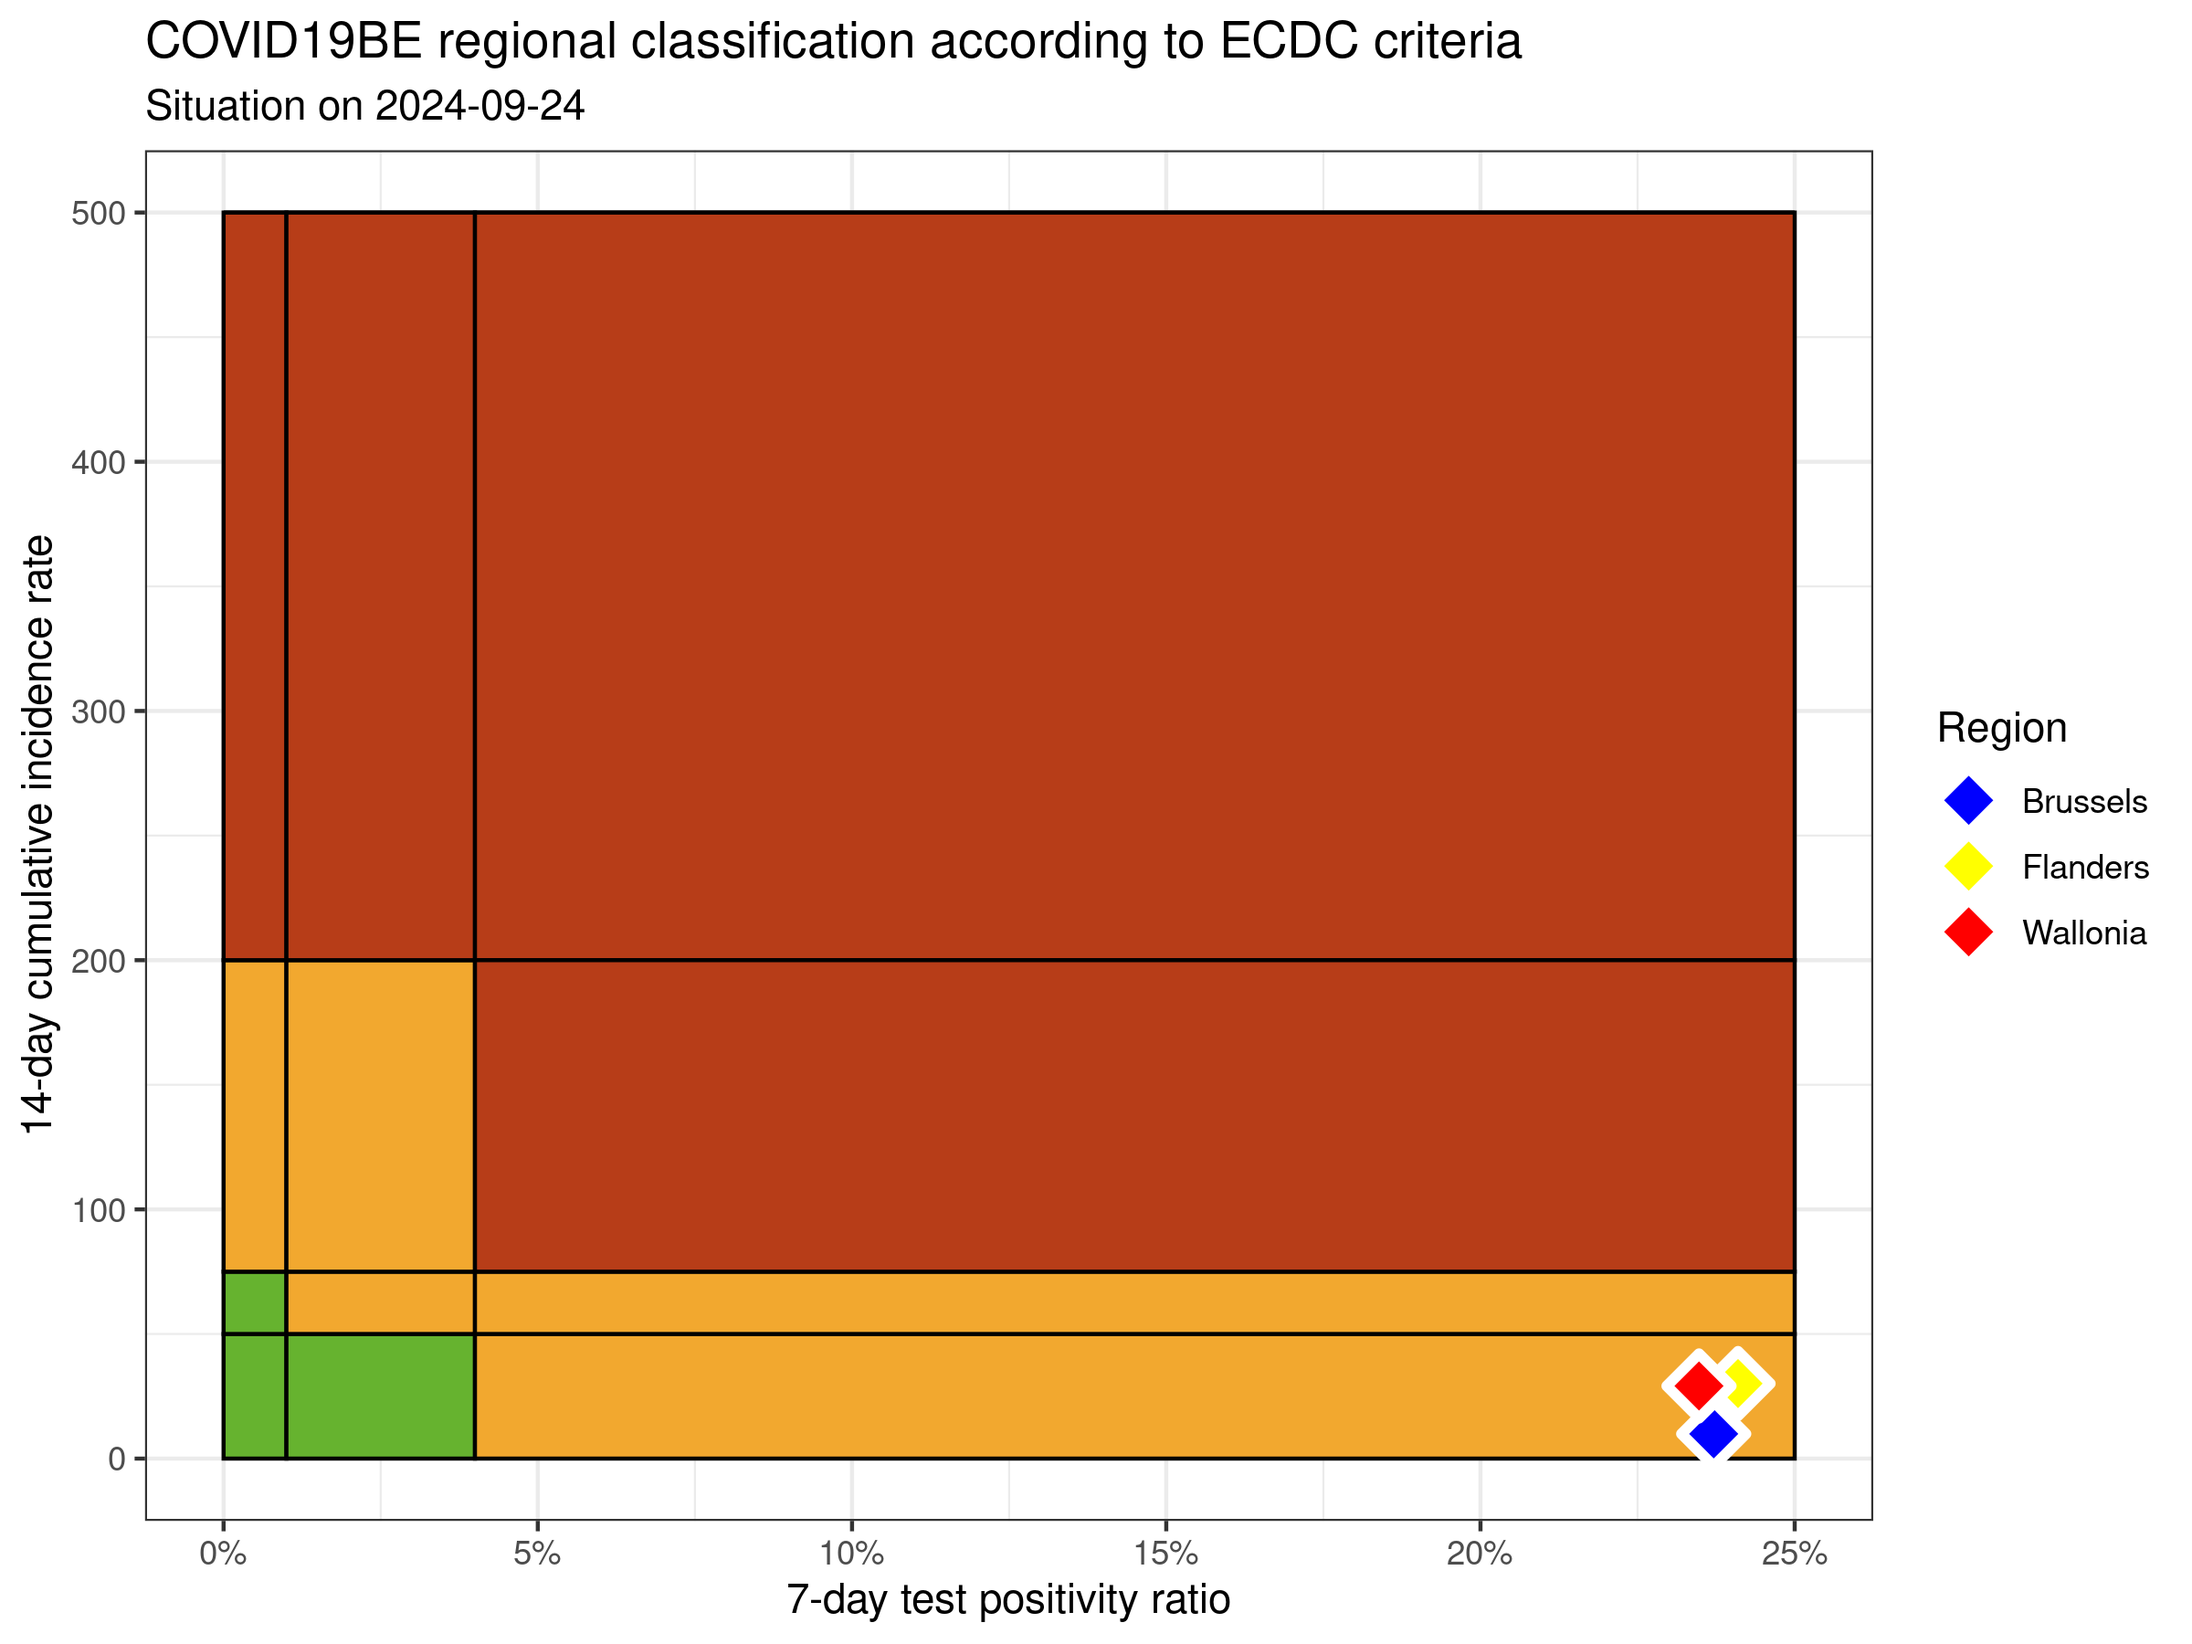
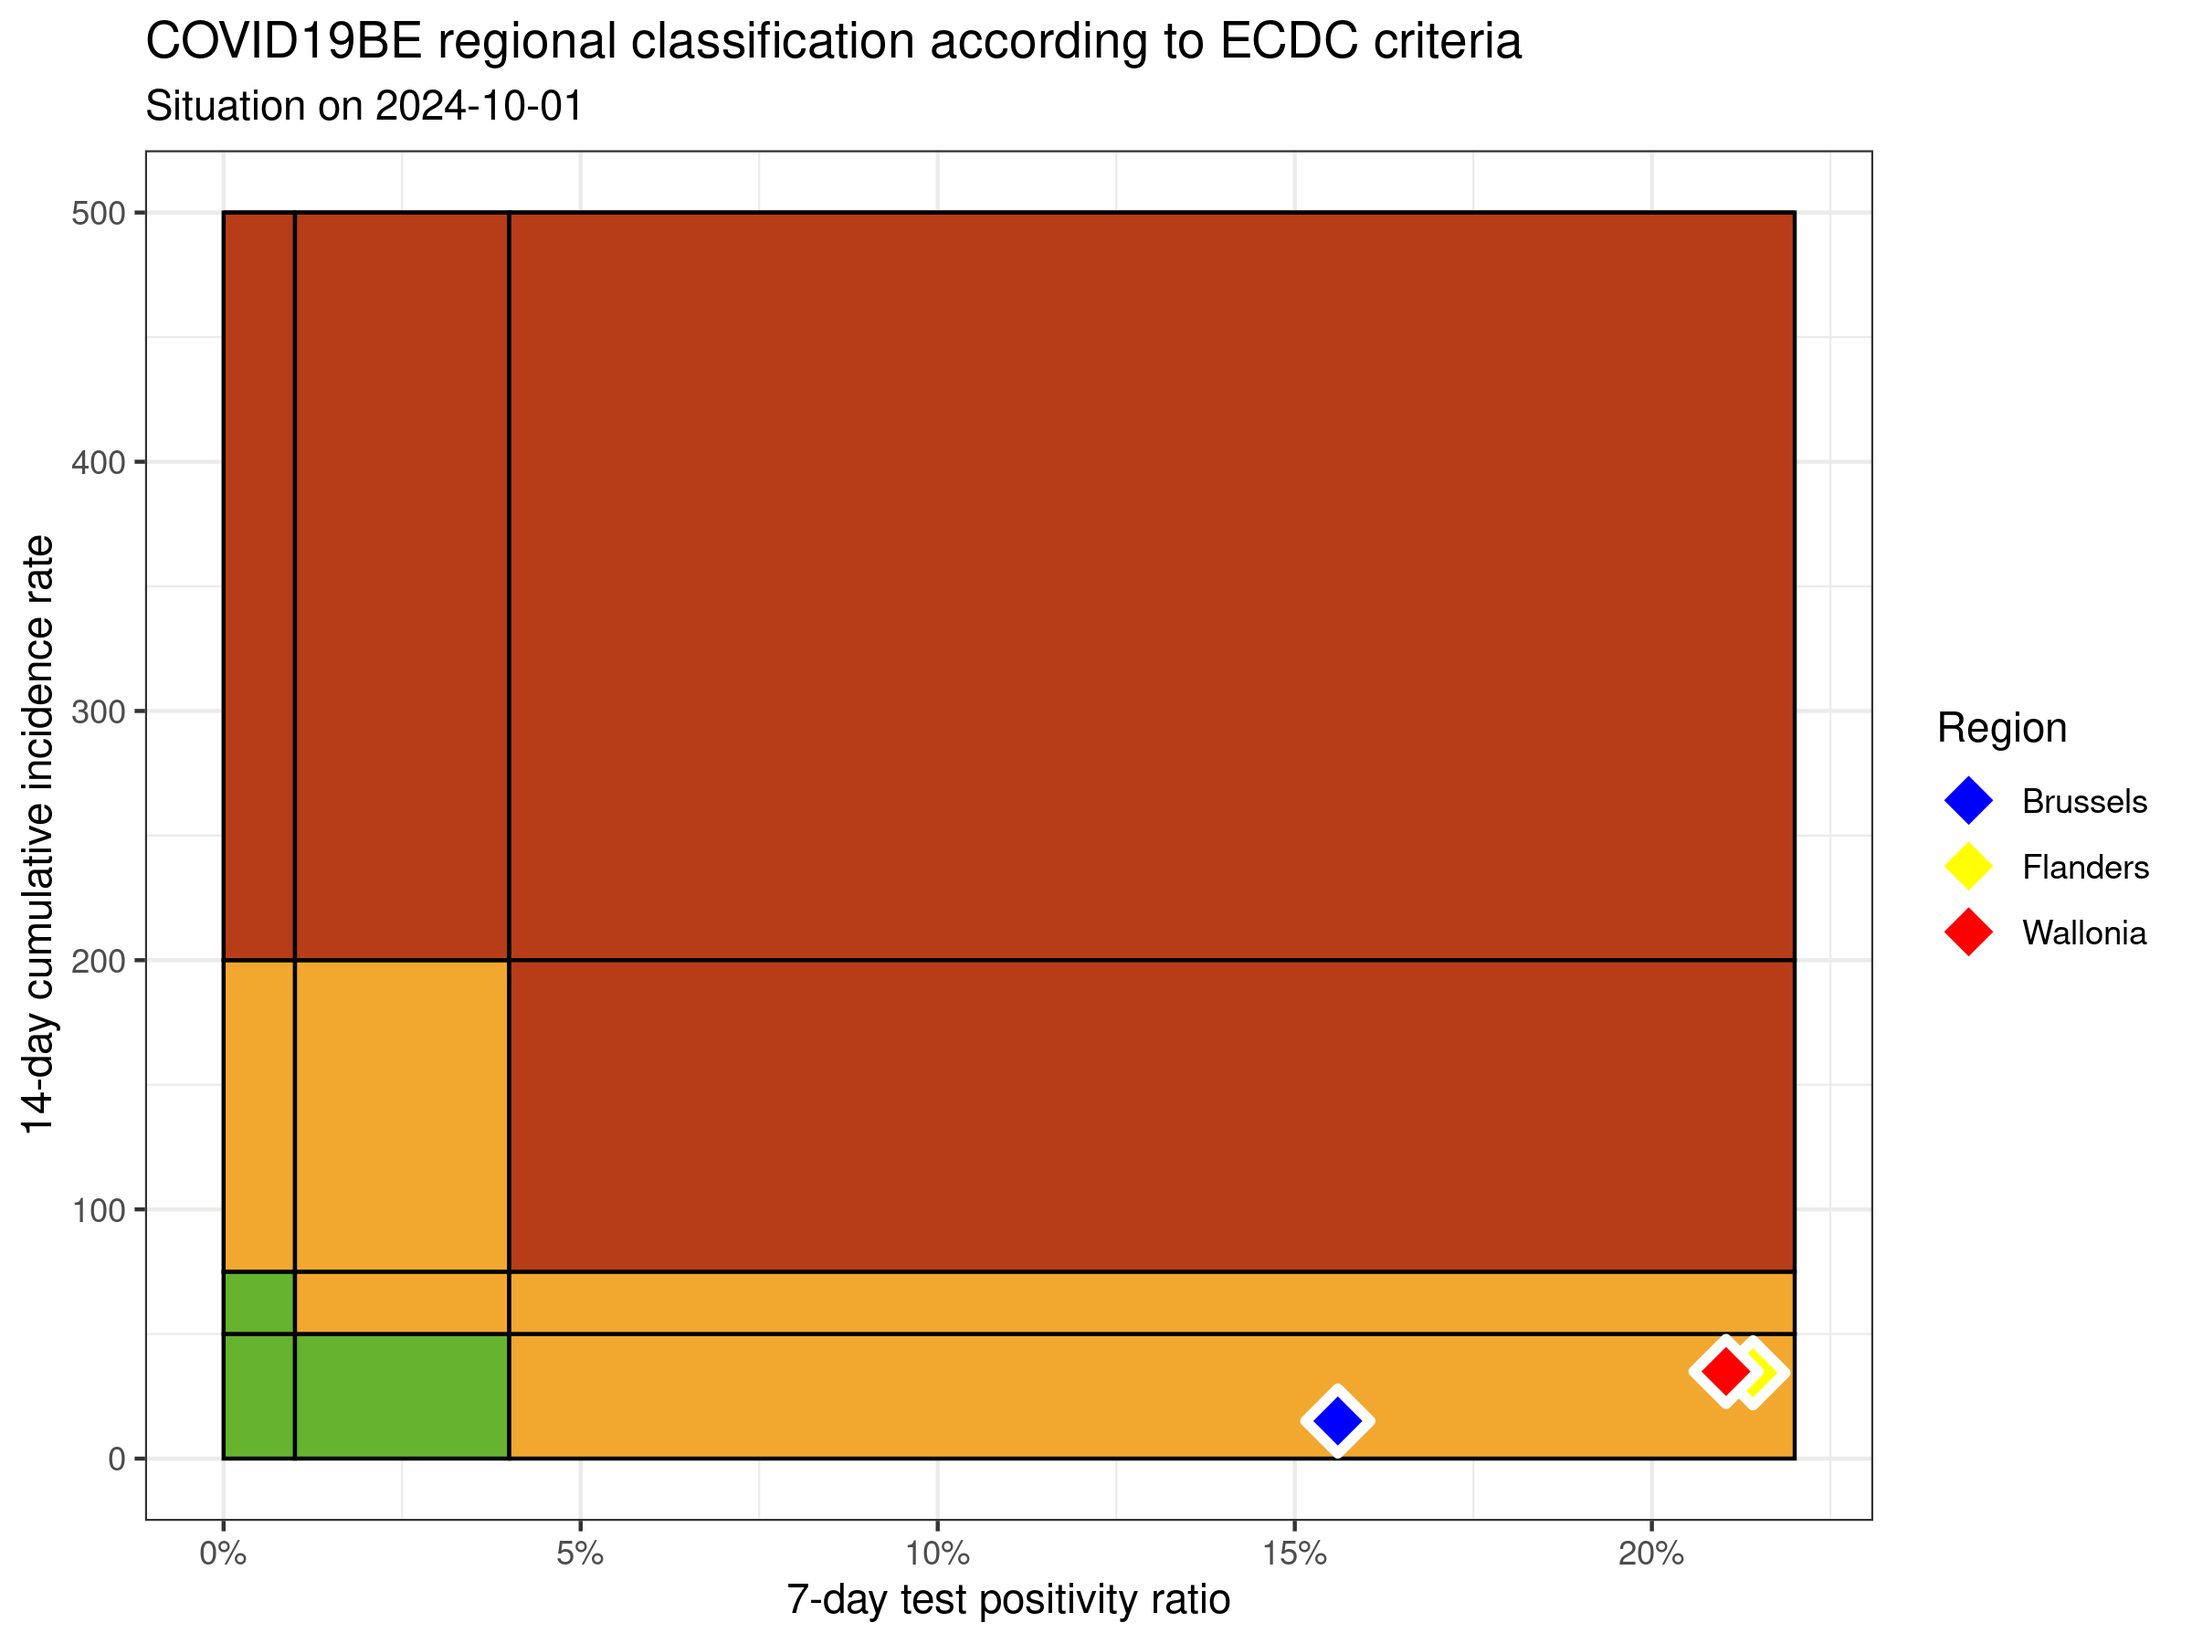
update situation

diff --git a/ecdc-trend/README.md b/ecdc-trend/README.md
@@ -9,11 +9,11 @@
 
 ![](COVID9BE-ecdc-trend.png)
 
-|          | INC14 | INC7 | TST7 | TST\_POS7 | REGION   |     POP | INC14\_RT |       PR7 |        GR |
-| :------- | ----: | ---: | ---: | --------: | :------- | ------: | --------: | --------: | --------: |
-| Brussels |   121 |   79 |  388 |        92 | Brussels | 1219970 |  9.918277 | 0.2371134 | 0.8809524 |
-| Flanders |  2003 | 1185 | 5656 |      1363 | Flanders | 6653062 | 30.106438 | 0.2409830 | 0.4486553 |
-| Wallonia |  1063 |  642 | 2939 |       690 | Wallonia | 3648206 | 29.137609 | 0.2347737 | 0.5249406 |
+|          | INC14 | INC7 | TST7 | TST\_POS7 | REGION   |     POP | INC14\_RT |       PR7 |          GR |
+| :------- | ----: | ---: | ---: | --------: | :------- | ------: | --------: | --------: | ----------: |
+| Brussels |   184 |   93 |  846 |       132 | Brussels | 1219970 |  15.08234 | 0.1560284 |   0.0219780 |
+| Flanders |  2289 | 1097 | 6299 |      1349 | Flanders | 6653062 |  34.40521 | 0.2141610 | \-0.0796980 |
+| Wallonia |  1275 |  618 | 3370 |       709 | Wallonia | 3648206 |  34.94868 | 0.2103858 | \-0.0593607 |
 
 ### Read more
 
